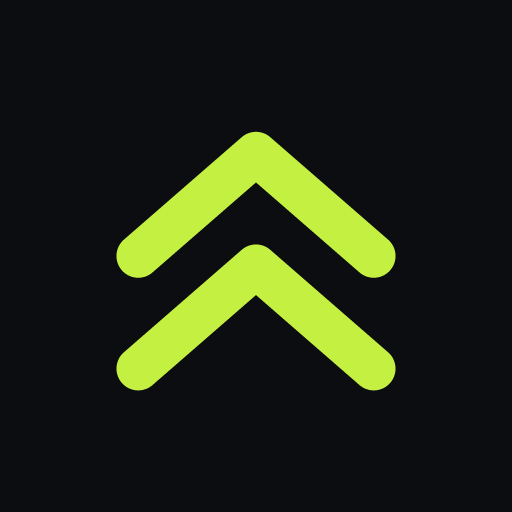
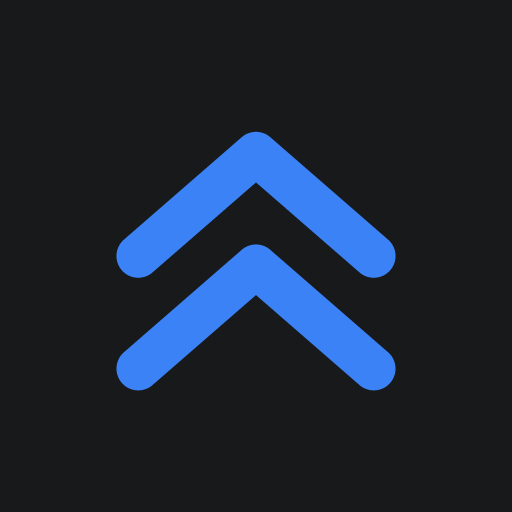
Sign in with email code, offline-aware sync, grey/blue theme
- Import: read CSVs as text and undo Excel's date conversion of rep
  ranges ("3-5" -> 5 Mar / serial 36955 -> 3-5)
- Sign-in emails carry a code as well as the link; the app verifies it
  in place, so iPhone home-screen installs can sign in
- Sync retries after failures (15s backoff up to 5 min), resumes on
  reconnect, and shows an offline state instead of an error
- Sign out syncs first, then clears this device; warns if that sync fails
- Dark grey + blue palette, runs in green; icons regenerated, SW cache bumped

Changed region(s): [[0.2188, 0.4688, 0.7812, 0.7812], [0.2188, 0.25, 0.7812, 0.5625]]

diff --git a/src/lib/sync.js b/src/lib/sync.js
@@ -2,8 +2,11 @@
 // local-only and none of this runs.
 //
 // One row per user in `user_state` (see supabase/schema.sql), protected by row-level
-// security. On open/focus: pull, merge with the local copy (lib/merge.js), push the result.
-// After local changes: push, debounced.
+// security. On open/focus/reconnect: pull, merge with the local copy (lib/merge.js), push
+// the result. After local changes: the same, debounced. Failures retry with backoff.
+//
+// Sign-in emails carry both a link and a code. The code matters on iPhone: a home-screen
+// app has its own storage, and links from Mail open in Safari instead.
 
 import { createClient } from '@supabase/supabase-js'
 import { mergeDocs, syncedPart } from './merge.js'
@@ -19,7 +22,18 @@ export async function sendMagicLink(email) {
   if (error) throw error
 }
 
-export const signOut = () => supabase.auth.signOut()
+export async function verifyCode(email, token) {
+  const { error } = await supabase.auth.verifyOtp({ email, token: token.replace(/\s/g, ''), type: 'email' })
+  if (error) throw error
+}
+
+let signOutImpl = null
+
+/**
+ * Sync one last time, sign out and clear this device. Returns false (and stays signed in)
+ * when the final sync fails, unless force is set; unsynced changes would be lost.
+ */
+export const signOut = ({ force = false } = {}) => (signOutImpl ? signOutImpl(force) : supabase.auth.signOut().then(() => true))
 
 async function pull(userId) {
   const { data, error } = await supabase.from('user_state').select('doc').eq('user_id', userId).maybeSingle()
@@ -32,17 +46,33 @@ async function push(userId, doc) {
   if (error) throw error
 }
 
+const RETRY_MIN = 15e3, RETRY_MAX = 5 * 60e3
+
 /**
  * Wire the store to Supabase. Returns an unsubscribe function.
- * onStatus receives { user, state: 'idle'|'syncing'|'synced'|'error', error?, at? }.
+ * onStatus receives { user, state: 'idle'|'syncing'|'synced'|'offline'|'error', error?, at? }.
  */
 export function startSync(useStore, onStatus) {
   if (!supabase) return () => {}
-  let user = null, timer = null, applying = false, lastPushed = ''
+  let user = null, timer = null, retryTimer = null, backoff = 0, applying = false, lastPushed = '', inflight = null
   const status = s => onStatus({ user, ...s })
 
+  const scheduleRetry = () => {
+    clearTimeout(retryTimer)
+    backoff = Math.min(backoff ? backoff * 2 : RETRY_MIN, RETRY_MAX)
+    retryTimer = setTimeout(syncNow, backoff)
+  }
+
+  // One sync at a time; a caller arriving mid-sync waits, then runs its own pass.
   const syncNow = async () => {
-    if (!user) return
+    while (inflight) await inflight
+    inflight = runSync()
+    try { return await inflight } finally { inflight = null }
+  }
+
+  const runSync = async () => {
+    if (!user) return false
+    if (!navigator.onLine) { status({ state: 'offline' }); return false }   // the 'online' event resumes
     status({ state: 'syncing' })
     try {
       const local = syncedPart(useStore.getState())
@@ -56,11 +86,29 @@ export function startSync(useStore, onStatus) {
       }
       if (!remote || json !== JSON.stringify(syncedPart(remote))) await push(user.id, merged)
       lastPushed = json
+      backoff = 0
+      clearTimeout(retryTimer)
       status({ state: 'synced', at: Date.now() })
+      return true
     } catch (e) {
       applying = false
-      status({ state: 'error', error: e.message || String(e) })
+      if (!user) return false
+      status({ state: navigator.onLine ? 'error' : 'offline', error: e.message || String(e) })
+      scheduleRetry()
+      return false
     }
+  }
+
+  signOutImpl = async force => {
+    clearTimeout(timer)
+    if (user && !(await syncNow()) && !force) return false
+    clearTimeout(retryTimer)
+    user = null                                  // stop the store subscription before clearing
+    await supabase.auth.signOut({ scope: 'local' })
+    useStore.getState().resetAll()
+    lastPushed = ''
+    status({ state: 'idle' })
+    return true
   }
 
   const unsubStore = useStore.subscribe(S => {
@@ -75,17 +123,22 @@ export function startSync(useStore, onStatus) {
     const next = session?.user || null
     const changed = next?.id !== user?.id
     user = next
-    if (!user) { status({ state: 'idle' }); return }
+    if (!user) { clearTimeout(retryTimer); status({ state: 'idle' }); return }
     if (changed) syncNow()
   })
 
   const onFocus = () => { if (document.visibilityState === 'visible') syncNow() }
+  const onOnline = () => { backoff = 0; syncNow() }
   document.addEventListener('visibilitychange', onFocus)
+  window.addEventListener('online', onOnline)
 
   return () => {
     unsubStore()
     authSub.subscription.unsubscribe()
     document.removeEventListener('visibilitychange', onFocus)
+    window.removeEventListener('online', onOnline)
     clearTimeout(timer)
+    clearTimeout(retryTimer)
+    signOutImpl = null
   }
 }

diff --git a/src/views/Settings.jsx b/src/views/Settings.jsx
@@ -3,7 +3,7 @@ import { useStore, blockOf } from '../store.js'
 import { importFile, normalizeProgram, downloadXlsx } from '../lib/import.js'
 import { normalizeBlock, startDeloadNow, restartThisWeek, restartNextMonday } from '../lib/block.js'
 import { syncedPart, mergeDocs } from '../lib/merge.js'
-import { syncConfigured, sendMagicLink, signOut } from '../lib/sync.js'
+import { syncConfigured, sendMagicLink, verifyCode, signOut } from '../lib/sync.js'
 import { useSync } from '../syncStatus.js'
 import { todayISO, fmtDate } from '../lib/util.js'
 import { Segmented, Sheet } from '../components/ui.jsx'
@@ -113,6 +113,8 @@ function AccountSection() {
   const sync = useSync()
   const [email, setEmail] = useState('')
   const [sent, setSent] = useState(false)
+  const [code, setCode] = useState('')
+  const [busy, setBusy] = useState(false)
   const [err, setErr] = useState('')
   if (!syncConfigured) {
     return (
@@ -124,21 +126,44 @@ function AccountSection() {
   }
   const send = async e => {
     e.preventDefault(); setErr('')
-    try { await sendMagicLink(email); setSent(true) } catch (x) { setErr(x.message) }
+    try { await sendMagicLink(email); setSent(true); setCode('') } catch (x) { setErr(x.message) }
   }
+  const verify = async e => {
+    e.preventDefault(); setErr(''); setBusy(true)
+    try { await verifyCode(email, code) } catch (x) { setErr(x.message) } finally { setBusy(false) }
+  }
+  const out = async () => {
+    setBusy(true)
+    try {
+      if (await signOut()) return
+      if (confirm("Your latest changes haven't synced. Signing out clears this device, so they'd be lost. Sign out anyway?")) await signOut({ force: true })
+    } finally { setBusy(false) }
+  }
+  const statusText = {
+    syncing: 'Syncing…',
+    offline: 'Offline. Changes are saved here and sync when you reconnect.',
+    error: `Sync error: ${sync.error}. Retrying.`
+  }[sync.state] ?? (sync.at ? `Synced ${new Date(sync.at).toLocaleTimeString()}` : '')
   return (
     <section className="card">
       <div className="card-h"><h2>Sync</h2>{sync.user && <span className={'dot ' + sync.state} title={sync.state} />}</div>
       {sync.user ? <>
         <p className="small">Signed in as <b>{sync.user.email}</b></p>
-        <p className="small muted">{sync.state === 'syncing' ? 'Syncing…' : sync.state === 'error' ? `Sync error: ${sync.error}` : sync.at ? `Synced ${new Date(sync.at).toLocaleTimeString()}` : ''}</p>
-        <button className="btn ghost" onClick={signOut}>Sign out</button>
-      </> : sent ? (
-        <p className="small">Check <b>{email}</b> for a sign-in link. Open it on this device.</p>
-      ) : (
+        <p className="small muted">{statusText}</p>
+        <button className="btn ghost" onClick={out} disabled={busy}>Sign out</button>
+        <p className="small muted">Signing out removes your data from this device. It stays in your account.</p>
+      </> : sent ? <>
+        <p className="small">We emailed <b>{email}</b> a code. Enter it here, or open the link in the email on this device.</p>
+        <form className="row gap" onSubmit={verify}>
+          <input className="grow" inputMode="numeric" autoComplete="one-time-code" required minLength={6} maxLength={12}
+            placeholder="Code" value={code} onChange={e => setCode(e.target.value)} />
+          <button className="btn primary" disabled={busy}>Verify</button>
+        </form>
+        <button className="link small" onClick={() => { setSent(false); setErr('') }}>Use a different email</button>
+      </> : (
         <form className="row gap" onSubmit={send}>
           <input className="grow" type="email" required placeholder="you@email.com" value={email} onChange={e => setEmail(e.target.value)} />
-          <button className="btn primary">Send link</button>
+          <button className="btn primary">Send code</button>
         </form>
       )}
       {err && <p className="small err-t">{err}</p>}

diff --git a/src/styles.css b/src/styles.css
@@ -1,18 +1,18 @@
-/* Overload: dark-first, one accent, big touch targets. */
+/* Overload: dark grey first, one blue accent, big touch targets. */
 :root {
-  --bg: #0c0d10;
-  --surface: #15171c;
-  --surface-2: #1e2128;
-  --surface-3: #282c35;
-  --label: #f2f3f5;
-  --label-2: #a2a7b3;
-  --label-3: #6b7180;
-  --sep: #2a2e37;
-  --acc: #c4f042;
-  --acc-ink: #10140a;
-  --acc-soft: rgba(196, 240, 66, .14);
-  --run: #4cc9f0;
-  --run-soft: rgba(76, 201, 240, .15);
+  --bg: #18191b;
+  --surface: #222326;
+  --surface-2: #2c2d31;
+  --surface-3: #38393e;
+  --label: #f2f2f3;
+  --label-2: #a5a6ab;
+  --label-3: #707177;
+  --sep: #333439;
+  --acc: #3b82f6;
+  --acc-ink: #ffffff;
+  --acc-soft: rgba(59, 130, 246, .16);
+  --run: #3ccf7e;
+  --run-soft: rgba(60, 207, 126, .15);
   --deload: #b197fc;
   --deload-soft: rgba(177, 151, 252, .16);
   --danger: #ff6b6b;
@@ -23,19 +23,19 @@
 }
 @media (prefers-color-scheme: light) {
   :root {
-    --bg: #f4f4f1;
+    --bg: #f2f2f4;
     --surface: #ffffff;
-    --surface-2: #eeefeb;
-    --surface-3: #e2e3de;
-    --label: #121418;
-    --label-2: #5b606b;
-    --label-3: #9196a0;
-    --sep: #e3e4df;
-    --acc: #5a8f00;
+    --surface-2: #ebebee;
+    --surface-3: #dfdfe3;
+    --label: #151619;
+    --label-2: #5c5e66;
+    --label-3: #92949b;
+    --sep: #e0e0e4;
+    --acc: #1f6fe5;
     --acc-ink: #ffffff;
-    --acc-soft: rgba(90, 143, 0, .12);
-    --run: #0284c7;
-    --run-soft: rgba(2, 132, 199, .12);
+    --acc-soft: rgba(31, 111, 229, .12);
+    --run: #13945a;
+    --run-soft: rgba(19, 148, 90, .12);
     --deload: #7048e8;
     --deload-soft: rgba(112, 72, 232, .12);
     --danger: #d9363e;
@@ -192,7 +192,7 @@ input[type=checkbox]:checked::after { transform: translateX(20px); }
   width: 26px; height: 26px; border-radius: 50%; border: 2px solid var(--label-3);
   display: grid; place-items: center;
 }
-.run-pill.done .run-check { background: var(--run); border-color: var(--run); color: #04141c; }
+.run-pill.done .run-check { background: var(--run); border-color: var(--run); color: #06180e; }
 .run-l { font-weight: 700; font-size: 14.5px; }
 .run-s { font-size: 12px; color: var(--label-2); }
 
@@ -267,6 +267,8 @@ input[type=checkbox]:checked::after { transform: translateX(20px); }
 .dot.synced { background: var(--acc); }
 .dot.syncing { background: var(--warn); }
 .dot.error { background: var(--danger); }
+.dot.offline { background: var(--label-3); box-shadow: inset 0 0 0 2px var(--surface); outline: 1px solid var(--label-3); }
+button.link { background: none; border: 0; padding: 0; cursor: pointer; align-self: flex-start; }
 
 /* ---------- tab bar ---------- */
 .tabbar {

diff --git a/src/lib/import.js b/src/lib/import.js
@@ -12,9 +12,29 @@ const DEFAULTS = { sets: 3, rir: 2, increment: 5, startWeight: 0, hitsToProgress
 const num = v => (v === '' || v == null ? undefined : Number(v))
 const slug = s => String(s).toLowerCase().replace(/[^a-z0-9]+/g, '-').replace(/^-|-$/g, '')
 
-/** "8-10", "8–10", "8 to 10" or "8" → [min, max]. */
+const MONTHS = ['jan', 'feb', 'mar', 'apr', 'may', 'jun', 'jul', 'aug', 'sep', 'oct', 'nov', 'dec']
+const sorted = (a, b) => (a <= b ? [a, b] : [b, a])
+
+/** A range that a spreadsheet turned into a date ("3-5" → 5 Mar) → [min, max], or null. */
+function repRangeFromDate(v) {
+  if (v instanceof Date) return sorted(v.getMonth() + 1, v.getDate())
+  // Excel serial day numbers; no rep count gets anywhere near 10000
+  if (typeof v === 'number' && v >= 10000) {
+    const d = new Date(Date.UTC(1899, 11, 30) + v * 864e5)
+    return sorted(d.getUTCMonth() + 1, d.getUTCDate())
+  }
+  // What Excel writes back to a CSV: "5-Mar", "Mar-5", "5 Mar"
+  const m = String(v).trim().toLowerCase().match(/^(\d{1,2})[\s-]([a-z]{3})[a-z]*$|^([a-z]{3})[a-z]*[\s-](\d{1,2})$/)
+  if (!m) return null
+  const month = MONTHS.indexOf(m[2] || m[3]) + 1
+  return month ? sorted(month, Number(m[1] || m[4])) : null
+}
+
+/** "8-10", "8–10", "8 to 10" or "8" → [min, max]. Undoes Excel's date conversion of "8-10". */
 export function parseRepRange(v) {
   if (v == null || v === '') return [undefined, undefined]
+  const fromDate = repRangeFromDate(v)
+  if (fromDate) return fromDate
   const m = String(v).match(/(\d+)\s*(?:-|–|—|to)\s*(\d+)/)
   if (m) return [Number(m[1]), Number(m[2])]
   const n = Number(v)
@@ -162,7 +182,8 @@ export async function importFile(file) {
     return normalizeProgram({ name, ...obj })
   }
   const XLSX = await import('xlsx')
-  const wb = XLSX.read(await file.arrayBuffer(), { type: 'array' })
+  // raw: keep CSV cells as text, otherwise SheetJS reads "3-5" as a date
+  const wb = XLSX.read(await file.arrayBuffer(), { type: 'array', raw: /\.csv$/i.test(file.name) })
   const sheetName = wb.SheetNames.find(n => !/^settings$/i.test(n)) || wb.SheetNames[0]
   const rows = XLSX.utils.sheet_to_json(wb.Sheets[sheetName], { defval: '' })
   const settingsSheet = wb.SheetNames.find(n => /^settings$/i.test(n))

diff --git a/src/lib/import.test.js b/src/lib/import.test.js
@@ -39,6 +39,17 @@ describe('spreadsheet import', () => {
     expect(parseRepRange(5)).toEqual([5, 5])
   })
 
+  it('undoes Excel turning rep ranges into dates', () => {
+    expect(parseRepRange(36955)).toEqual([3, 5])       // 5 Mar 2001 serial
+    expect(parseRepRange(46086)).toEqual([3, 5])       // 5 Mar 2026 serial
+    expect(parseRepRange('5-Mar')).toEqual([3, 5])
+    expect(parseRepRange('12-Aug')).toEqual([8, 12])
+    expect(parseRepRange('Dec-15')).toEqual([12, 15])
+    expect(parseRepRange('3-May')).toEqual([3, 5])     // day-first locales
+    expect(parseRepRange(new Date(2026, 5, 10))).toEqual([6, 10])
+    expect(parseRepRange('10-120')).toEqual([10, 120])
+  })
+
   it('groups rows into ordered days and reads the Settings row', () => {
     const rows = [
       { Week: 'B', Day: 1, DayName: 'Push B', Exercise: 'Dip', Sets: 3, Reps: '6-10' },
@@ -80,6 +91,14 @@ describe('spreadsheet import', () => {
     const csv = 'Week,Day,DayName,Exercise,Sets,Reps\nA,1,Push A,Bench,3,6-8\nA,1,Push A,Fly,2,12-15\n'
     const res = await importFile({ name: 'p.csv', arrayBuffer: async () => new TextEncoder().encode(csv).buffer })
     expect(res.errors).toEqual([])
-    expect(res.program.days[0].exercises).toHaveLength(2)
+    expect(res.program.days[0].exercises.map(e => [e.sets, e.repMin, e.repMax])).toEqual([[3, 6, 8], [2, 12, 15]])
+  })
+
+  it('imports a CSV that Excel has re-saved with dates', async () => {
+    const csv = 'Week,Day,DayName,Exercise,Sets,Reps,RIR,Muscles\nA,1,Push 1,Flat Bench,4,5-Mar,1,"chest, triceps"\nA,1,Push 1,Lat Raise,3,12-Aug,0,shoulders\n'
+    const res = await importFile({ name: 'p.csv', arrayBuffer: async () => new TextEncoder().encode(csv).buffer })
+    expect(res.errors).toEqual([])
+    expect(res.program.days[0].exercises.map(e => [e.name, e.sets, e.repMin, e.repMax, e.rir])).toEqual([['Flat Bench', 4, 3, 5, 1], ['Lat Raise', 3, 8, 12, 0]])
+    expect(res.program.days[0].exercises[0].muscles).toEqual(['chest', 'triceps'])
   })
 })

diff --git a/index.html b/index.html
@@ -5,8 +5,8 @@
     <meta name="viewport" content="width=device-width, initial-scale=1, viewport-fit=cover" />
     <title>Overload</title>
     <meta name="description" content="PPLUL lifting, runs and progressive overload, in your pocket." />
-    <meta name="theme-color" content="#0c0d10" media="(prefers-color-scheme: dark)" />
-    <meta name="theme-color" content="#f4f4f1" media="(prefers-color-scheme: light)" />
+    <meta name="theme-color" content="#18191b" media="(prefers-color-scheme: dark)" />
+    <meta name="theme-color" content="#f2f2f4" media="(prefers-color-scheme: light)" />
     <meta name="apple-mobile-web-app-capable" content="yes" />
     <meta name="mobile-web-app-capable" content="yes" />
     <meta name="apple-mobile-web-app-status-bar-style" content="black-translucent" />

diff --git a/public/sw.js b/public/sw.js
@@ -3,7 +3,7 @@
 // cached shell; same-origin assets are cache-first (Vite hashes their names). Cross-origin
 // requests (Supabase) are never touched.
 
-const CACHE = 'overload-v1'
+const CACHE = 'overload-v2'
 const SHELL = ['/', '/manifest.webmanifest', '/icon.svg', '/icon-192.png']
 
 self.addEventListener('install', e => {

diff --git a/README.md b/README.md
@@ -53,7 +53,10 @@ node scripts/make-icons.mjs   # regenerate the PWA icons
 1. **Supabase** (optional, needed for sync): create a free project. In the SQL Editor, run
    [`supabase/schema.sql`](supabase/schema.sql). Under Authentication → URL Configuration, set
    the Site URL to your Vercel URL and add it to Redirect URLs. Copy the Project URL and the
-   anon key from Project Settings → API.
+   anon key from Project Settings → API. In Authentication → Email Templates, add
+   `{{ .Token }}` to both the **Magic Link** and **Confirm signup** templates. The app asks for
+   that code, because on iPhone a home-screen app can't receive the email link (it opens in
+   Safari, which has separate storage).
 2. **Vercel**: push this repo to GitHub, then import it at vercel.com/new. Vite is detected
    automatically. Add the environment variables `VITE_SUPABASE_URL` and `VITE_SUPABASE_ANON_KEY`
    and deploy. Every push to `main` redeploys.
